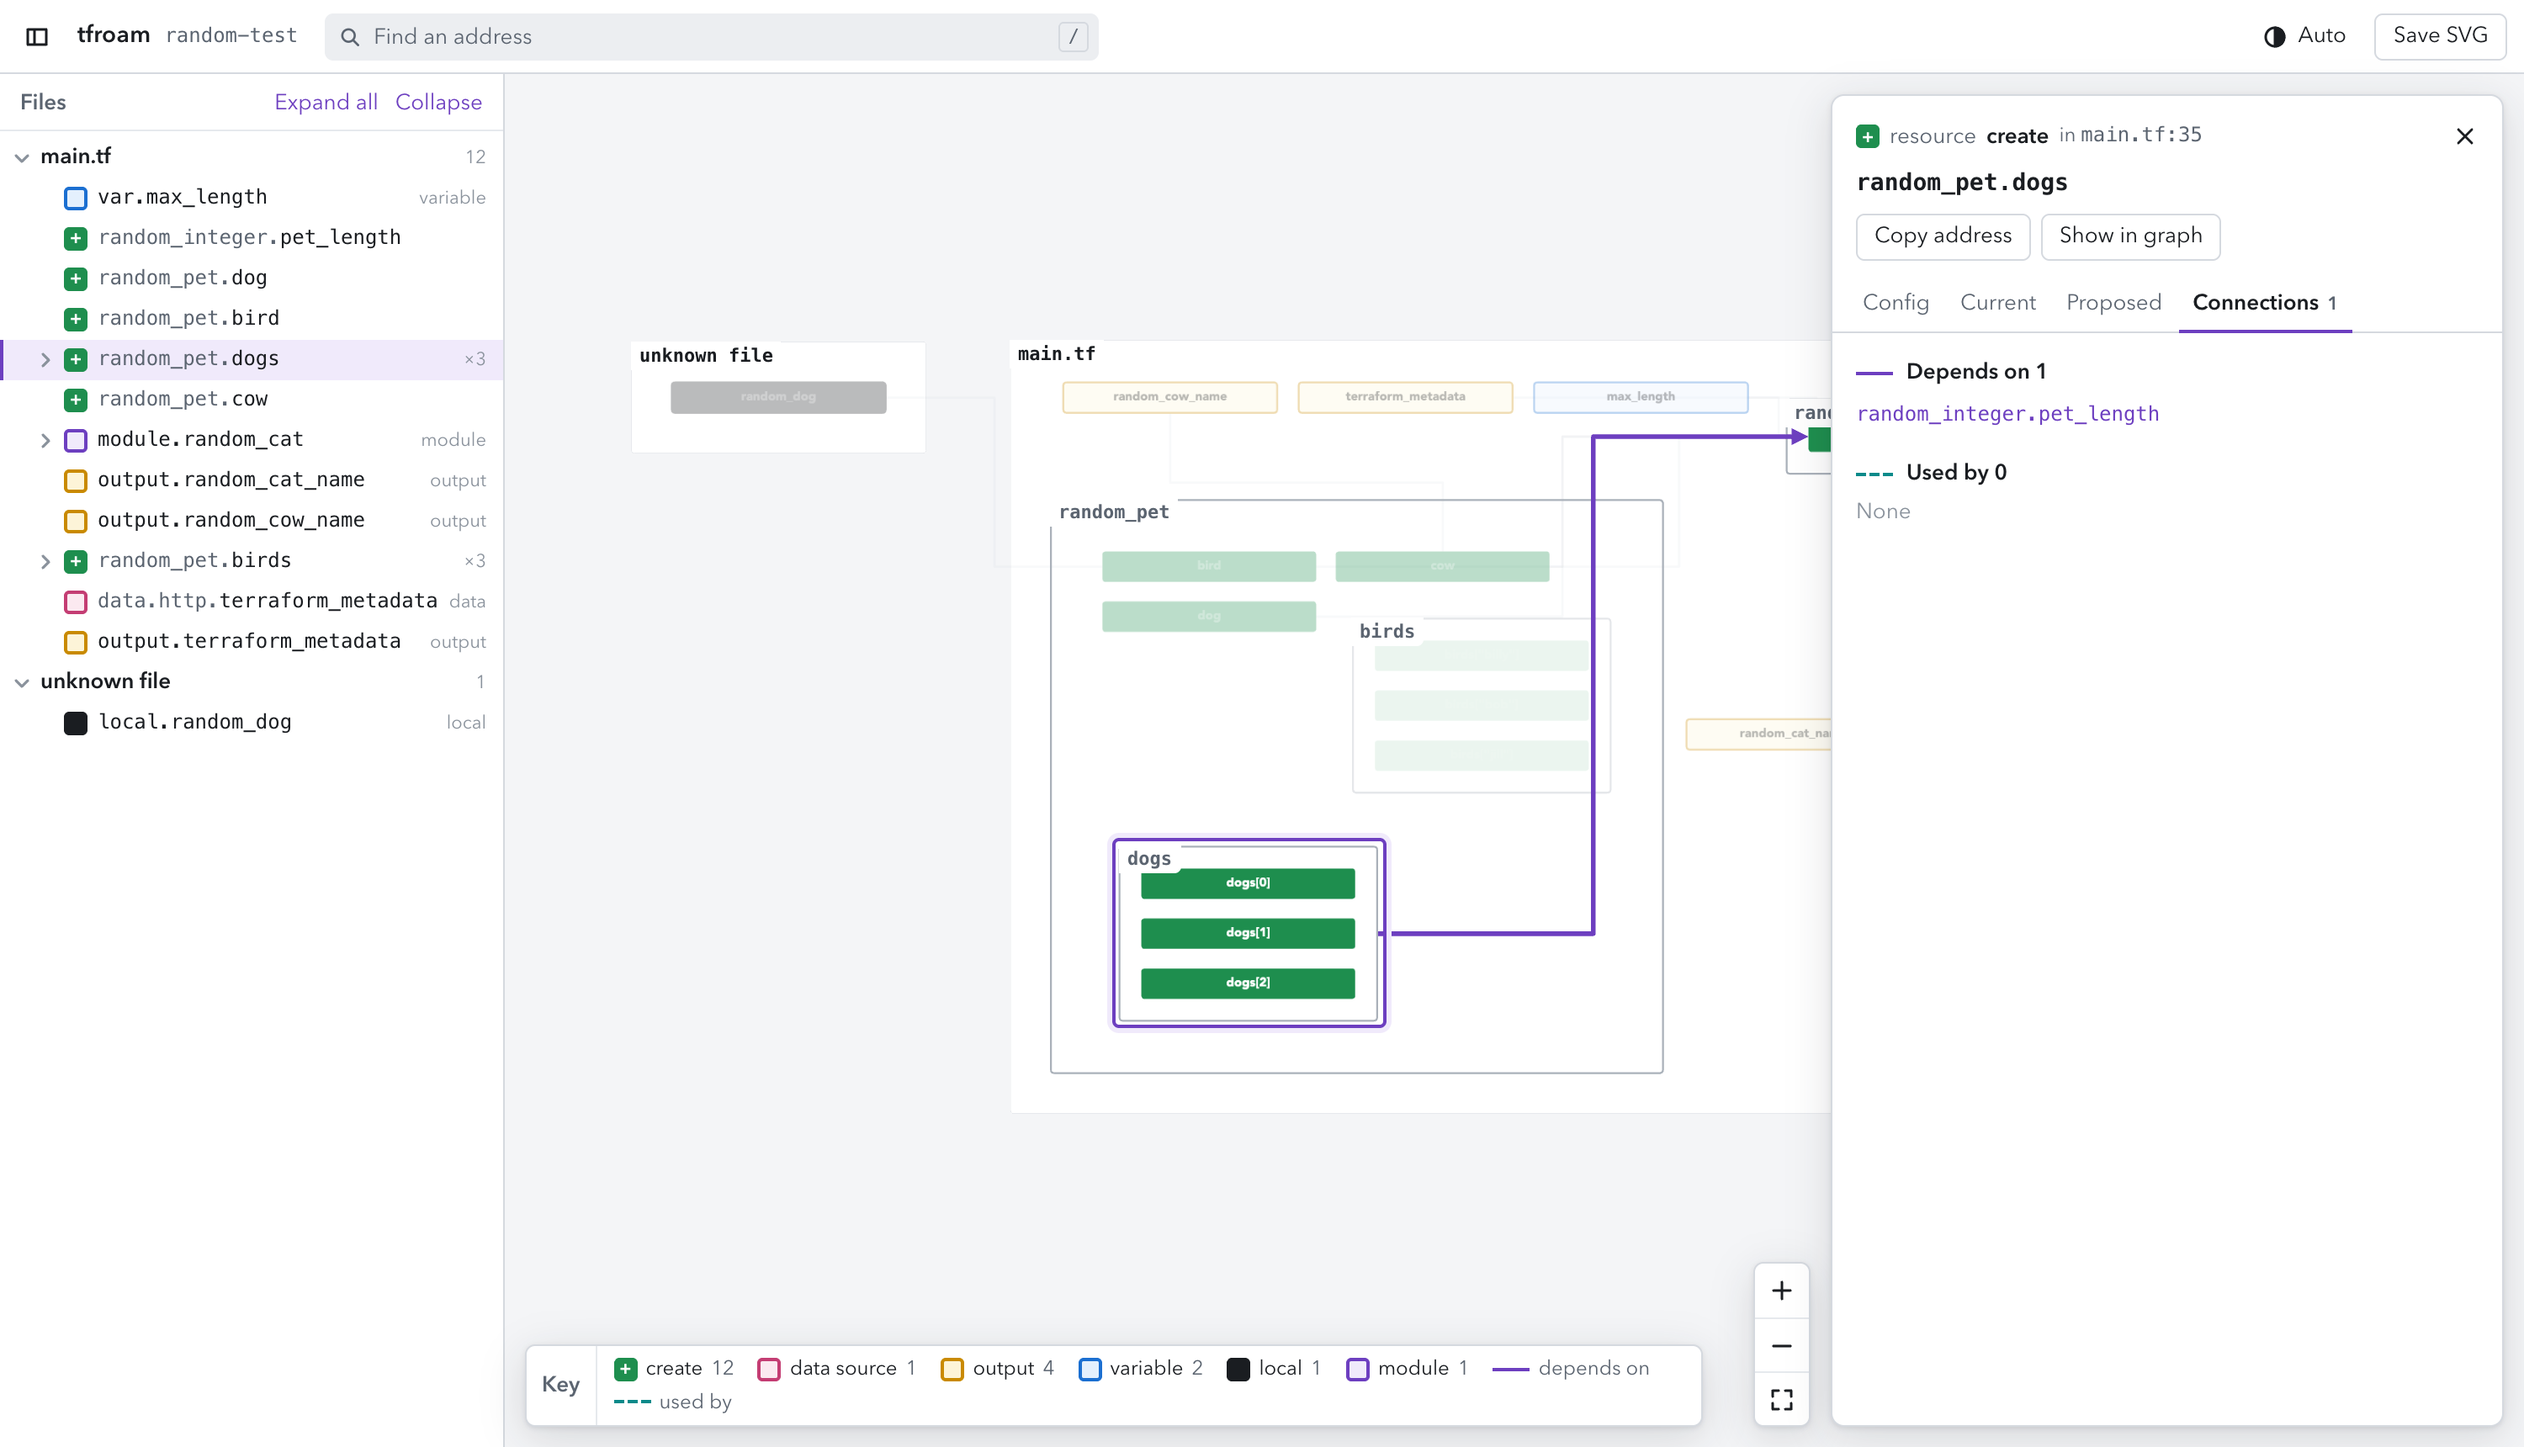
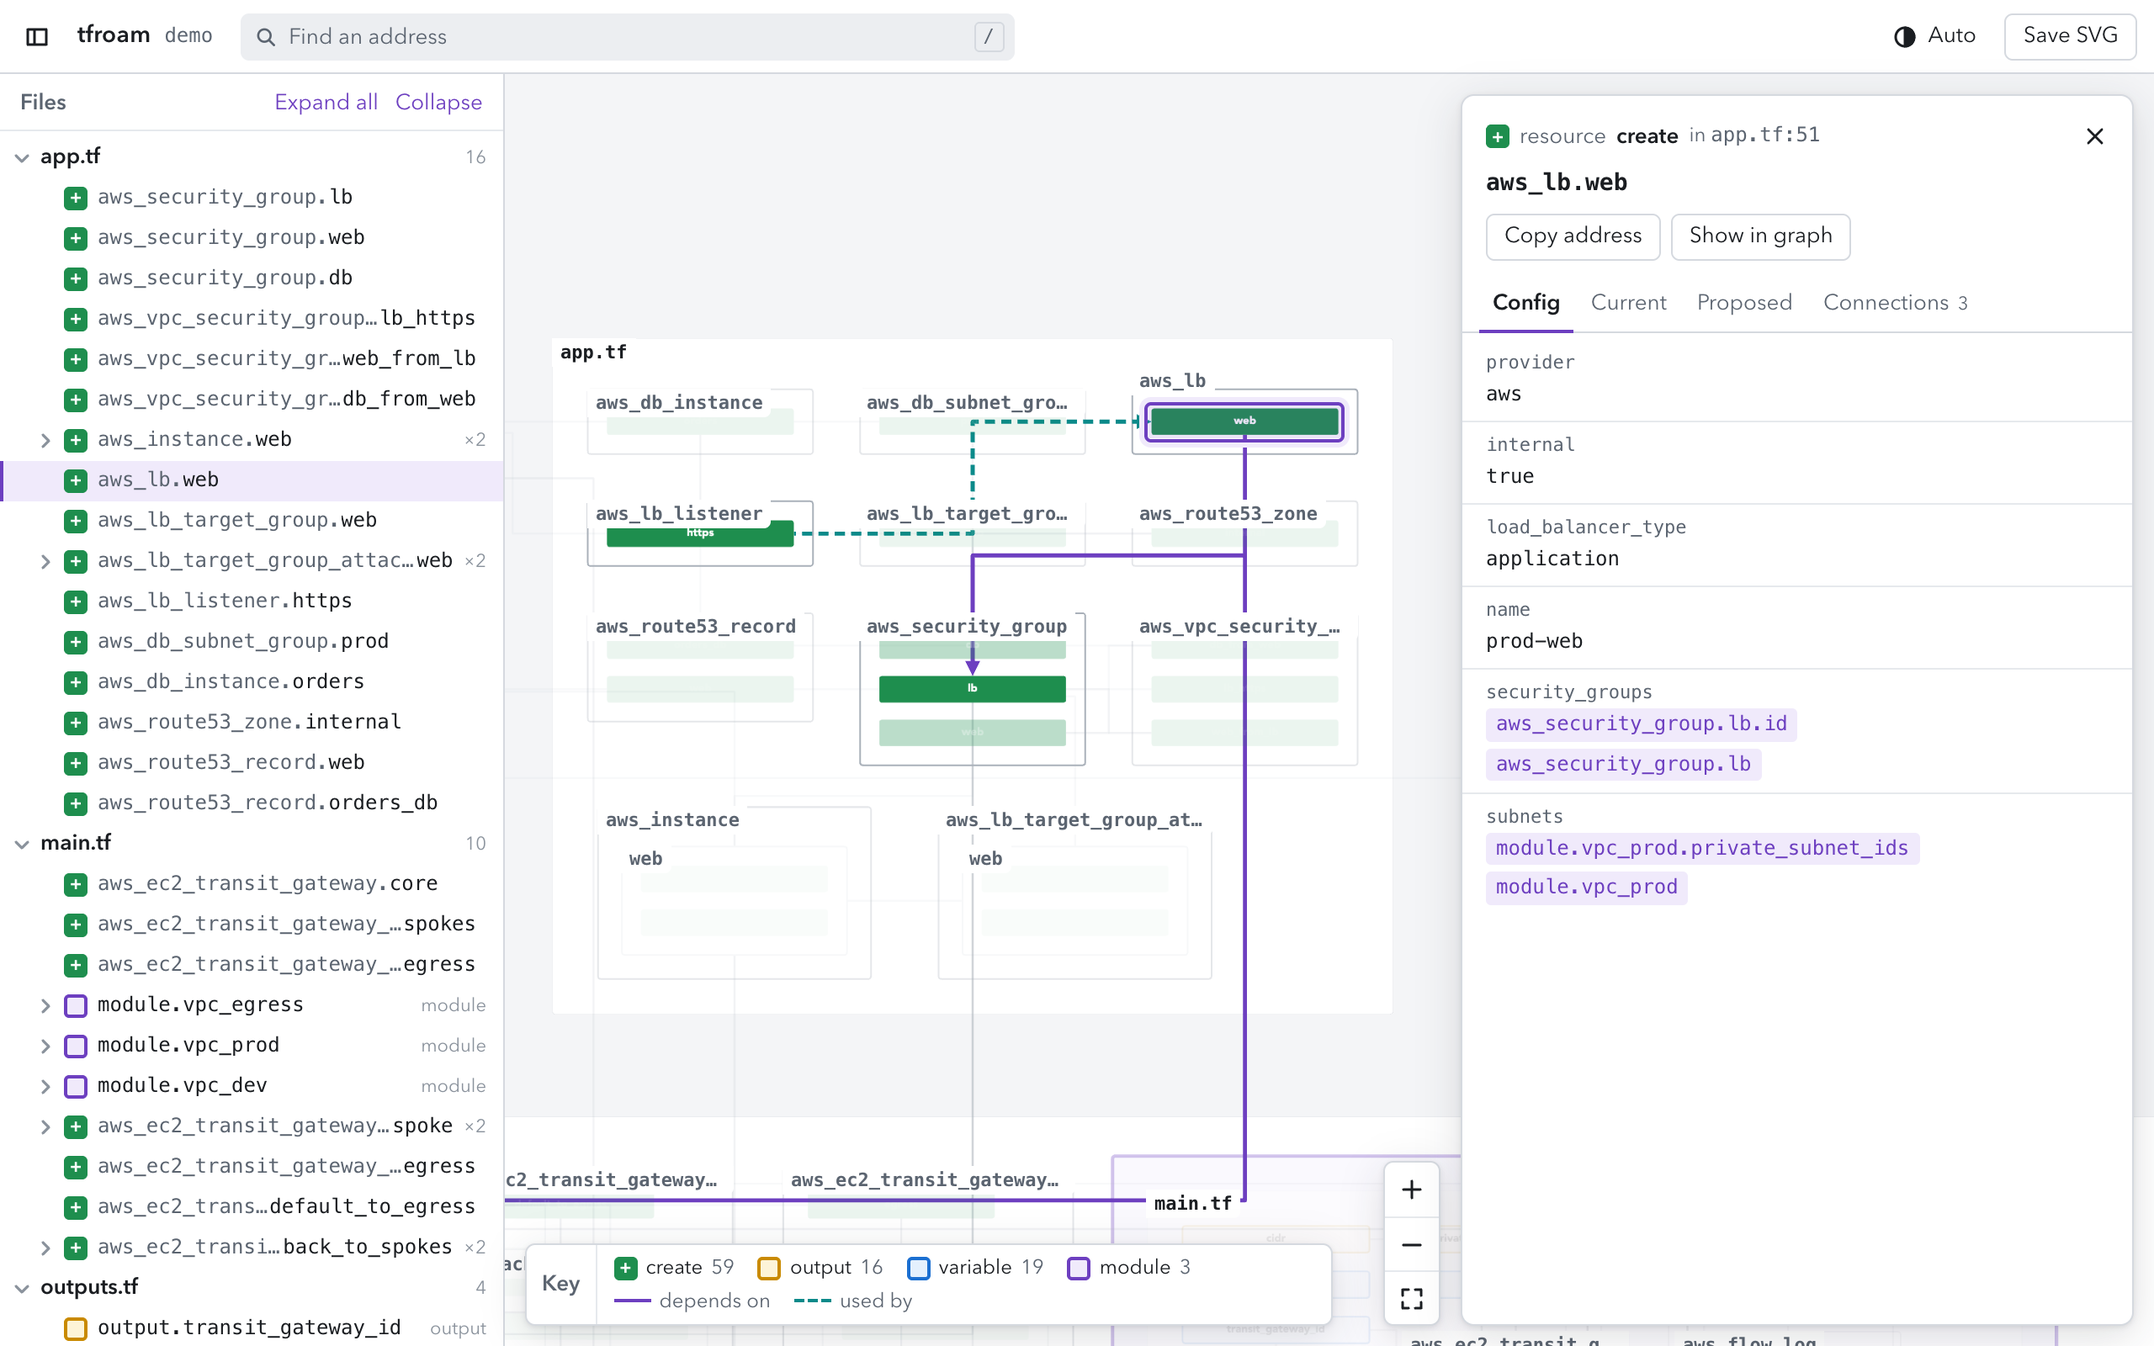
docs: new screenshots and feature GIFs from a demo network
- docs/demo: a made-up three-VPC AWS network (transit gateway, web tier,
  database, DNS; 59 resources) that plans without an AWS account. All README
  media is recorded from it: cd docs/demo && rover.
- README: light/dark hero screenshot (<picture>), and GIFs for finding an
  address, following dependencies, and zooming. "Move around" now says drags
  pan from anywhere and double-click zooms to any item.
- .gitattributes: GIFs are binary.

diff --git a/README.md b/README.md
@@ -17,7 +17,13 @@ Rover:
 3. serves an interactive configuration and state visualization on `127.0.0.1:9000`, writes a standalone
    `rover.zip`, or saves the graph as an SVG.
 
-![tfroam showing a small plan: file list, graph and the details of a selected resource](docs/screenshot.png)
+<picture>
+  <source media="(prefers-color-scheme: dark)" srcset="docs/screenshot-dark.png">
+  <img alt="tfroam showing a three-VPC AWS plan: the file list, the graph with a load balancer selected and its dependencies highlighted, and its details" src="docs/screenshot.png">
+</picture>
+
+The screenshots and animations on this page use the made-up network in [`docs/demo`](docs/demo) (three VPC
+modules, a transit gateway and a small web tier; it plans without an AWS account): `cd docs/demo && rover`.
 
 ## Install
 
@@ -84,9 +90,10 @@ The graph fills the window. The file and resource list is on the left; details o
 - **Find:** press `/` and type any part of an address (`nat_gateway`, `module.vpc_dev`, several words narrow
   it down). Matches are listed and outlined in the graph; `Enter` opens the first, the arrow keys walk the
   list.
-- **Move around:** drag to pan, scroll or pinch to zoom, double-click a box (a file, a module, a resource
-  type) to zoom to it. The buttons in the corner zoom and fit the whole graph. "Show in graph" in the details
-  panel brings the selected item into view at a readable size.
+- **Move around:** drag anywhere to pan (on a box or a resource too), scroll or pinch to zoom, double-click
+  anything (a resource, a file, a module, a resource type) to zoom to it. The buttons in the corner zoom and
+  fit the whole graph. "Show in graph" in the details panel brings the selected item into view at a readable
+  size.
 - **Read a big plan:** when the graph is zoomed out too far for its own labels, files, modules and resource
   types get small fixed-size labels instead, and the key along the bottom counts what the plan contains
   (`+` create, `~` update, `±` replace, `-` delete).
@@ -99,6 +106,21 @@ The graph fills the window. The file and resource list is on the left; details o
   and dark. Animations are skipped when the system asks for reduced motion.
 - **Save SVG** downloads the whole graph as `rover.svg`, always in the original Rover style whatever is on
   screen (this is also what `-genImage` saves).
+
+**Find an address.** Press `/` and type part of an address: matches are listed and outlined in the graph.
+Open one, then follow a reference in its configuration to the resource it points at.
+
+![Typing "orders" lists three matches; opening aws_db_instance.orders zooms to it, and clicking its db_subnet_group_name reference jumps to aws_db_subnet_group.prod](docs/search.gif)
+
+**Follow the dependencies.** Drag to pan, click a resource to see what it depends on (solid lines) and what
+uses it (dashed), and walk from item to item through its references or the *Connections* tab. `Esc` clears.
+
+![Dragging the graph, selecting aws_lb.web, following its security group reference, then using the Connections tab to reach an ingress rule](docs/navigate.gif)
+
+**Zoom in and out.** Scroll to zoom where the pointer is, until the labels are readable; the fit button
+brings the whole graph back, and a double-click zooms straight to one item.
+
+![Scrolling into module.vpc_egress until its resources are readable, panning, fitting the whole graph again, then double-clicking aws_db_instance.orders to zoom to it](docs/zoom.gif)
 
 The page loads nothing from the network: no CDN, fonts or analytics.
 
